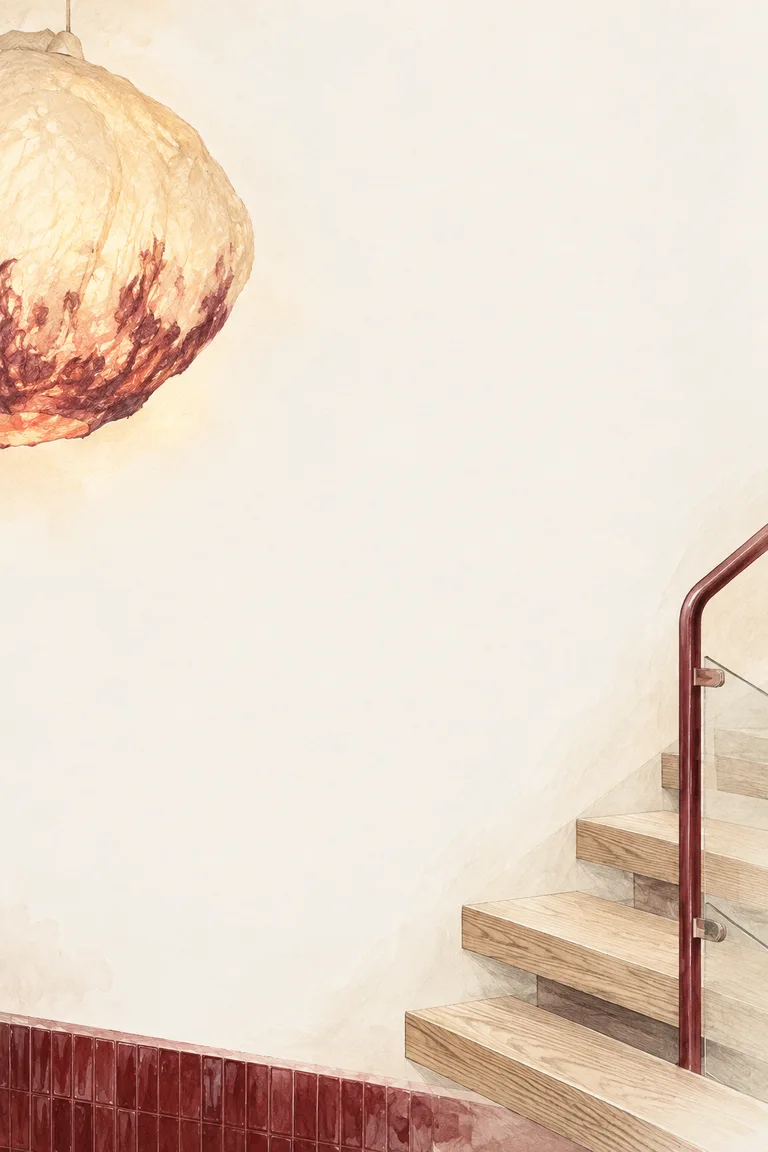
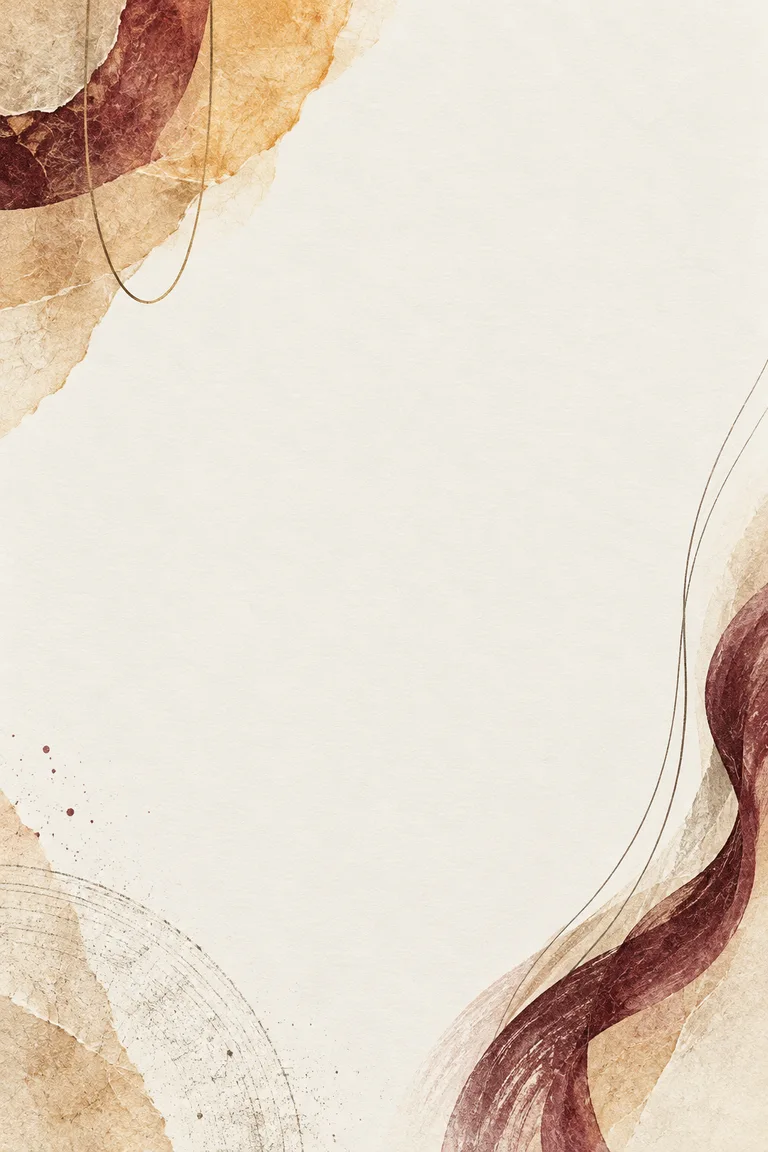
refine(menu): retain original metal frame and abstract Atrium artwork

diff --git a/src/styles/menu.css b/src/styles/menu.css
@@ -620,7 +620,7 @@ a:focus-visible,button:focus-visible{
   display:block;
   padding:8px 16px;
 }
-/* Preserve the original treatment; only the cookie gets the fine metal rim. */
+/* Cookie comparison: the original metal treatment with 60% of its ring width. */
 .featured-photo-legacy{display:contents}
 .item-photo[data-featured-frame="refined"]{overflow:visible;margin-bottom:30px}
 .item-photo[data-featured-frame="refined"] img,
@@ -629,17 +629,12 @@ a:focus-visible,button:focus-visible{
 .featured-photo-mount{
   position:absolute;inset:0;z-index:4;border-radius:inherit;pointer-events:none;
 }
-.featured-photo-rim{
-  position:absolute;inset:-1.5px;border-radius:inherit;padding:1.5px;
-  background:linear-gradient(135deg,#948779 0%,#f7f1e7 22%,#b8aaa0 45%,#ede3d7 66%,#8d8176 100%);
-  -webkit-mask:linear-gradient(#fff 0 0) content-box,linear-gradient(#fff 0 0);
-  -webkit-mask-composite:xor;
-  mask:linear-gradient(#fff 0 0) content-box,linear-gradient(#fff 0 0);
-  mask-composite:exclude;
-  /* No shader/glow on this rim: corners remain a continuous, flush contour. */
+.cold-brew-photo-frame-refined{
+  overflow:hidden;
+  box-shadow:inset 0 0 0 3.6px var(--scarlet),inset 0 0 0 4.2px rgba(var(--ivory-rgb),.9),inset 0 0 20px rgba(var(--scarlet-rgb),.2);
 }
 .featured-photo-mount .cold-brew-photo-label{
-  inset-block-end:-1.5px;
+  inset-block-end:0;
   transform:translateY(50%);
 }
 #menu[data-menu-view="list"] .item-photo[data-featured-frame="refined"]{margin-bottom:20px}

diff --git a/src/menu/MenuBackgrounds.jsx b/src/menu/MenuBackgrounds.jsx
@@ -2,7 +2,7 @@ import { useEffect, useLayoutEffect, useState } from "react";
 import "../styles/menu-backgrounds.css";
 
 export const MENU_BACKGROUNDS = [
-  { id: "atrium", name: "Amber Atrium", label: "آتریوم کهربایی", description: "نور آویز دستساز، چوب روشن و معماری ال کافه" },
+  { id: "atrium", name: "Amber Atrium", label: "آتریوم کهربایی", description: "برداشتی انتزاعی از نور معلق، بافت دستساز و خطوط معماری" },
   { id: "limestone", name: "Limestone Atelier", label: "آتلیه سنگ", description: "گچ روشن، نور عصر و سایههای معماری" },
   { id: "nocturne", name: "Bronze Nocturne", label: "شب برنزی", description: "ابریشم تیره، برنز و فضای شام" },
   { id: "garden", name: "Garden Folio", label: "باغ روی کاغذ", description: "حکاکی سرو و انار روی کاغذ سبز روشن" },

diff --git a/src/styles/menu-backgrounds.css b/src/styles/menu-backgrounds.css
@@ -1,4 +1,4 @@
-/* Amber Atrium: L Cafe's pendant, stairwell and materials as an architectural folio. */
+/* Amber Atrium / Suspended warmth: abstract light, handmade fibers and architectural rhythm. */
 :root[data-menu-background="atrium"]{
   --background-art:url('../../assets/menu-backgrounds/amber-atrium.webp');
   --background-wash:rgba(243,241,236,.68);
@@ -105,7 +105,7 @@ html[data-menu-background="nocturne"] .foot a:focus-visible{outline-color:#f1dfc
   html[data-menu-background] body::before{background-position:18% center;background-size:auto 100%;}
   html[data-menu-background="garden"] body::before{background-position:left center;}
   html[data-menu-background="atrium"] body::before{
-    /* The tall composition keeps a cropped pendant and stair edge in view. */
+    /* Cropped paper forms and ascending lines surround a quiet mobile reading field. */
     background-size:cover;
     background-position:center top;
     height:100lvh;

diff --git a/src/menu/MenuApp.jsx b/src/menu/MenuApp.jsx
@@ -325,15 +325,15 @@ function FeaturedPhotoTreatment({ refined = false }) {
 
   return (
     <span className={refined ? "featured-photo-mount" : "featured-photo-legacy"}>
-      <span className={refined ? "featured-photo-rim" : "cold-brew-photo-frame"} aria-hidden="true">
-        {!refined && showMetal ? (
+      <span className={refined ? "cold-brew-photo-frame cold-brew-photo-frame-refined" : "cold-brew-photo-frame"} aria-hidden="true">
+        {showMetal ? (
           <SafeMetalFx
             variant="button"
             // Preset/theme are shared by metal-fx; keep the other menu effects intact.
             preset="silver"
             theme="light"
             strength={1}
-            ringCssPx={5}
+            ringCssPx={refined ? 3 : 5}
             shaderScale={2.4}
             scale={1.5}
             normalizeHostStyles={false}
